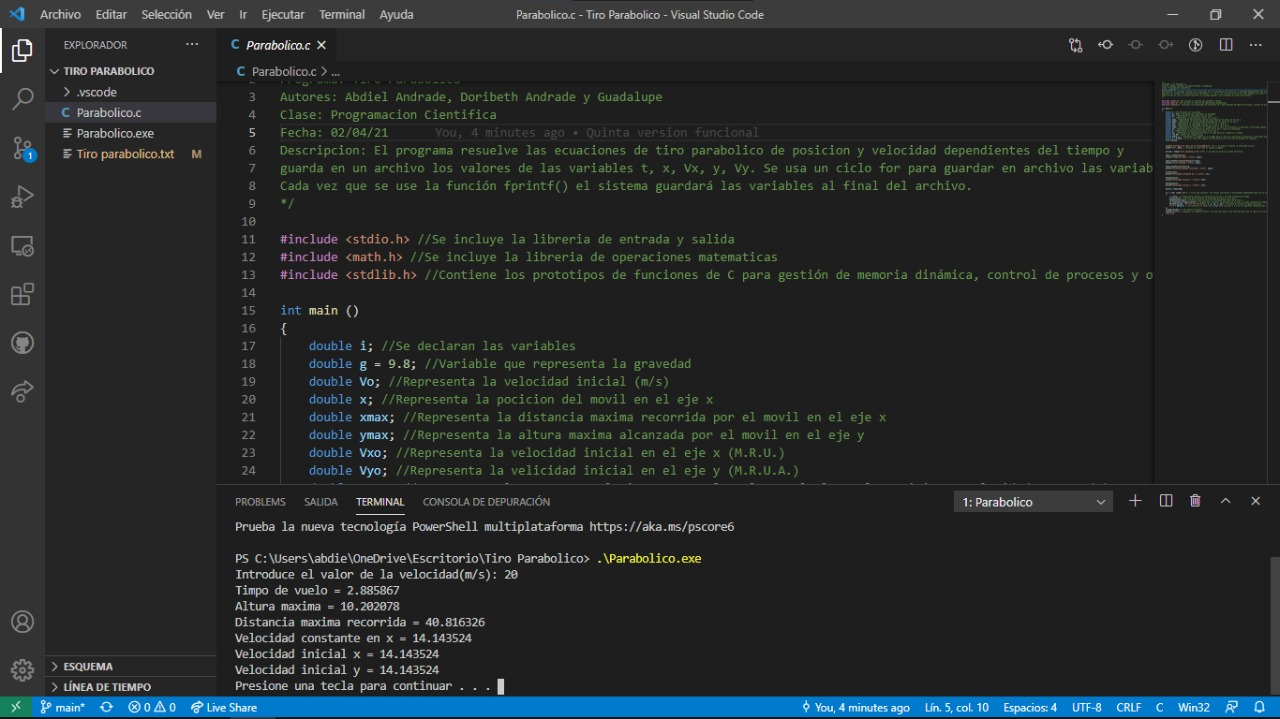
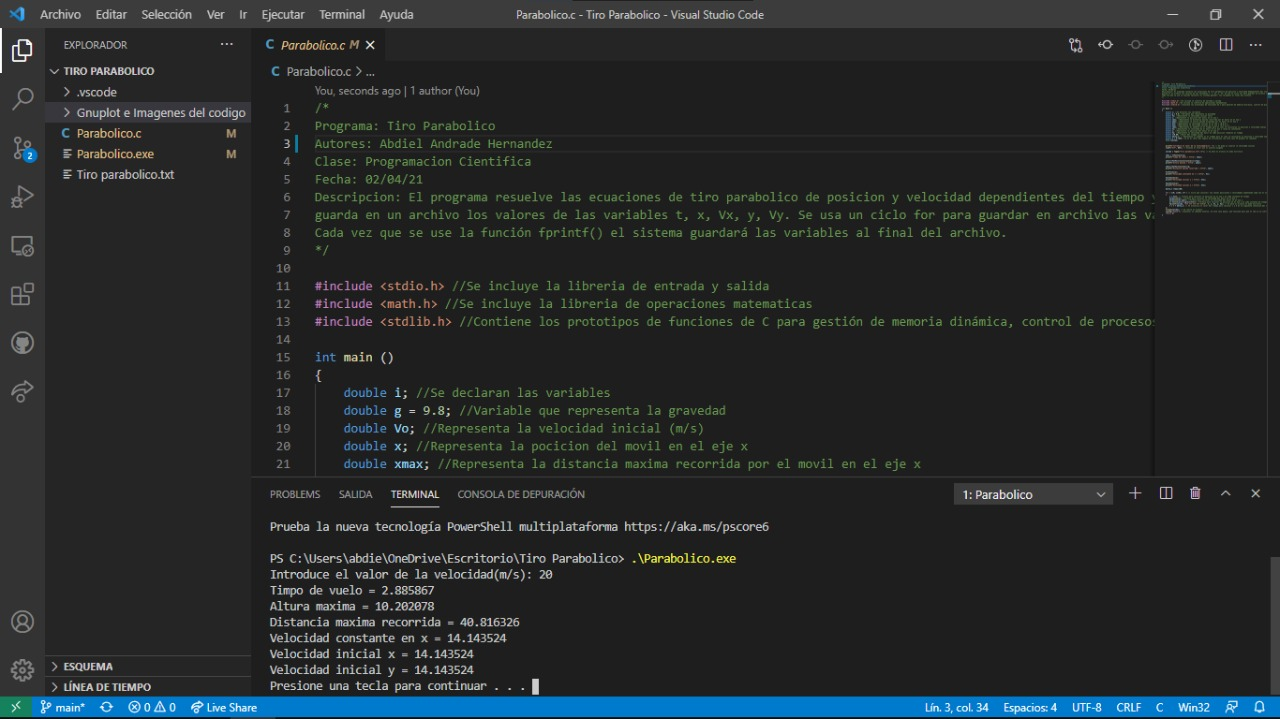
Version Final Funcional 1.0

diff --git a/Parabolico.c b/Parabolico.c
@@ -1,6 +1,6 @@
 /*
 Programa: Tiro Parabolico
-Autores: Abdiel Andrade, Doribeth Andrade y Guadalupe
+Autores: Abdiel Andrade Hernandez
 Clase: Programacion Cientifica
 Fecha: 02/04/21
 Descripcion: El programa resuelve las ecuaciones de tiro parabolico de posicion y velocidad dependientes del tiempo y
